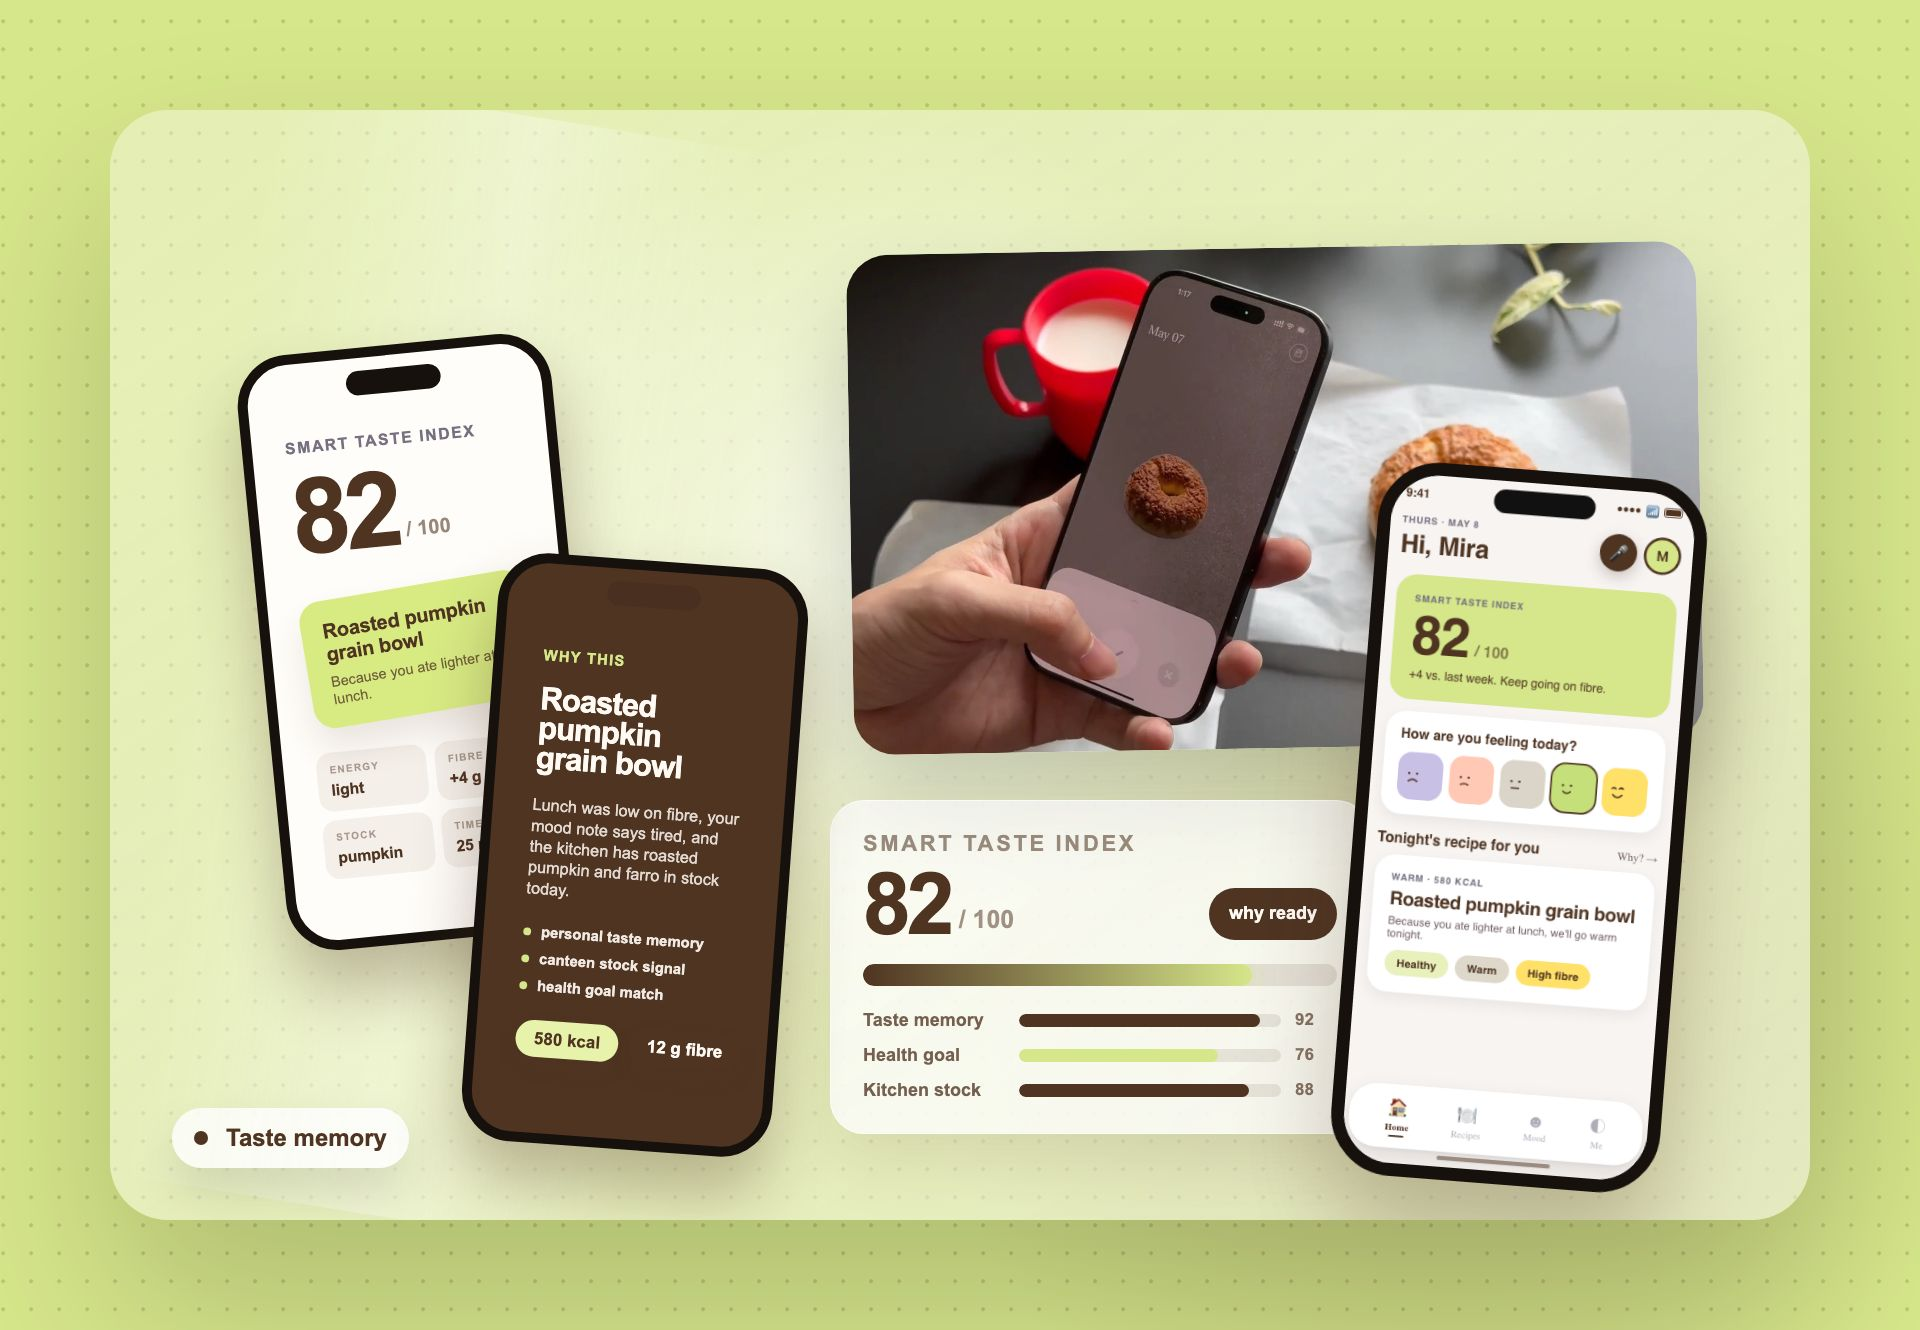
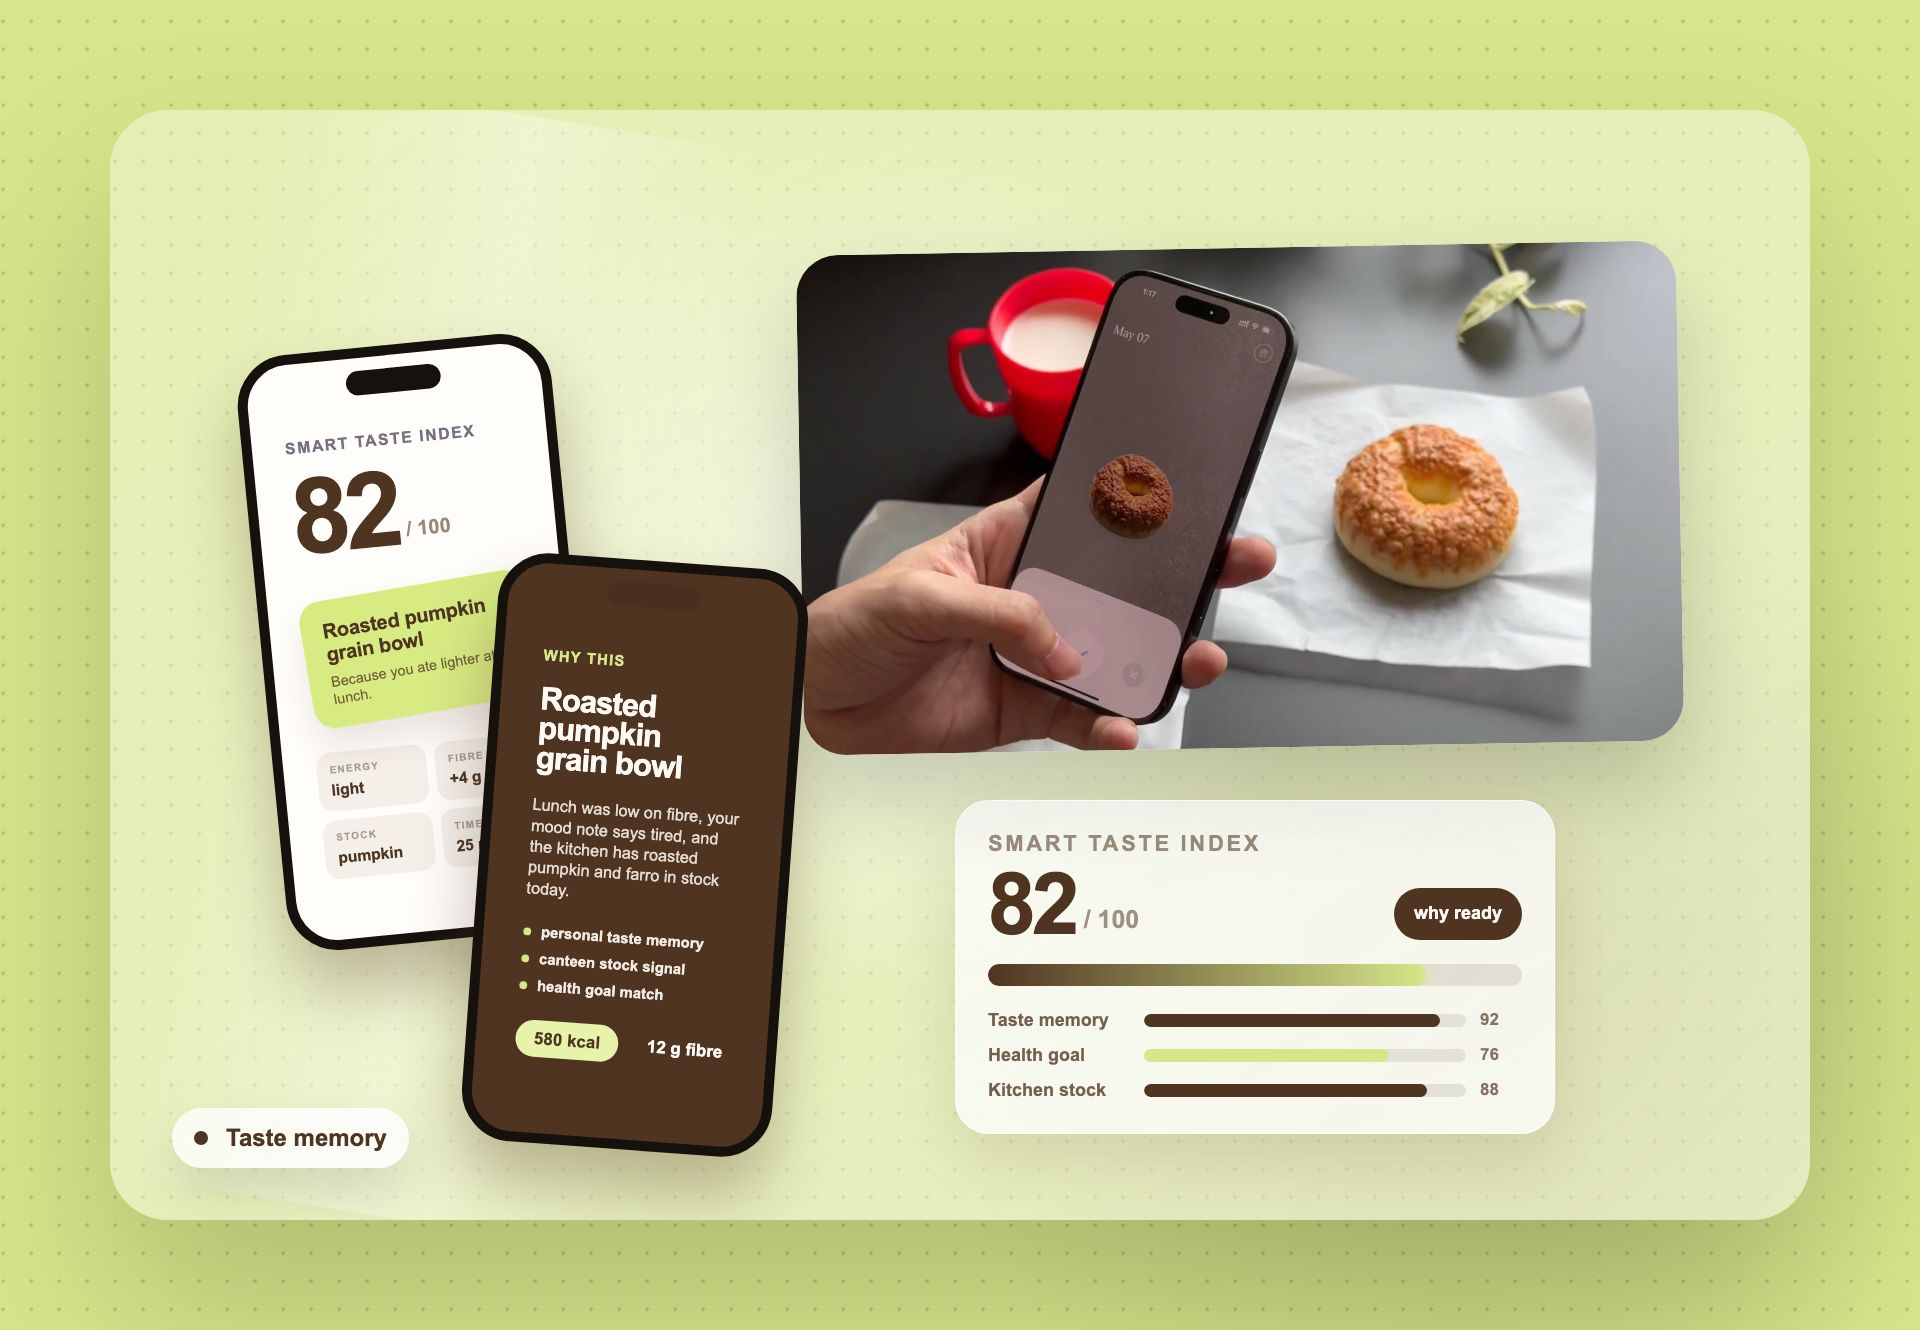
fix: reduce smataste featured card density

Changed region(s): [[0.4062, 0.185, 0.9062, 0.9248]]

diff --git a/remotion/FeaturedProjectProductCard.tsx b/remotion/FeaturedProjectProductCard.tsx
@@ -508,9 +508,9 @@ function VariantLayers({
         <CardImage
           src={imageOne}
           style={{
-            right: 110,
+            right: 130,
             top: 130 + floatA * 8,
-            width: 850,
+            width: 880,
             height: 500,
             borderRadius: 42,
             objectPosition: "center",
@@ -521,27 +521,9 @@ function VariantLayers({
         <div
           style={{
             position: "absolute",
-            right: 126,
-            top: 360 + floatB * 9,
-            width: 330,
-            height: 715,
-            borderRadius: 62,
-            background: "#f7f4f2",
-            border: "13px solid #17110d",
-            boxShadow: "0 54px 90px rgba(79,52,34,.28)",
-            overflow: "hidden",
-            transform: `rotate(4.5deg) scale(${0.94 + intro * 0.06})`,
-            zIndex: 7,
-          }}
-        >
-          <Img src={asset(imageTwo)} style={{ width: "100%", height: "100%", objectFit: "cover" }} />
-        </div>
-        <div
-          style={{
-            position: "absolute",
-            left: 720,
+            left: 845,
             top: 690,
-            width: 540,
+            width: 600,
             padding: "30px 32px 32px",
             borderRadius: 34,
             background: "rgba(255,255,255,.58)",